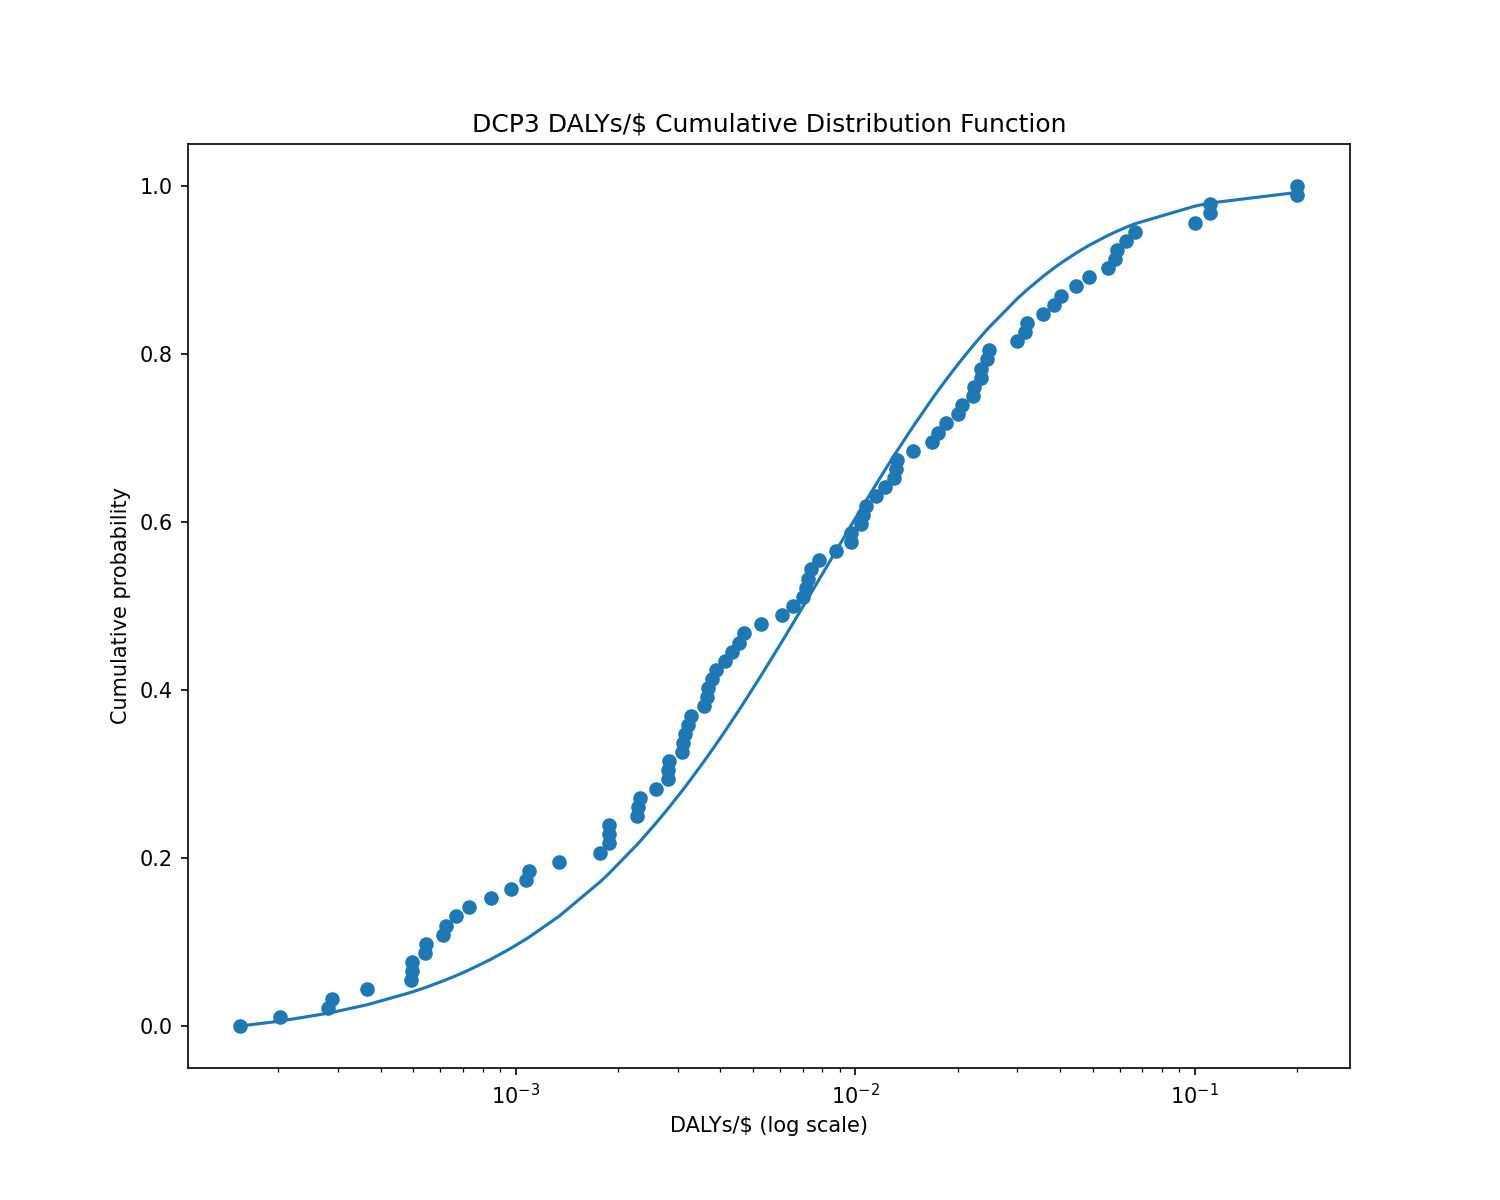
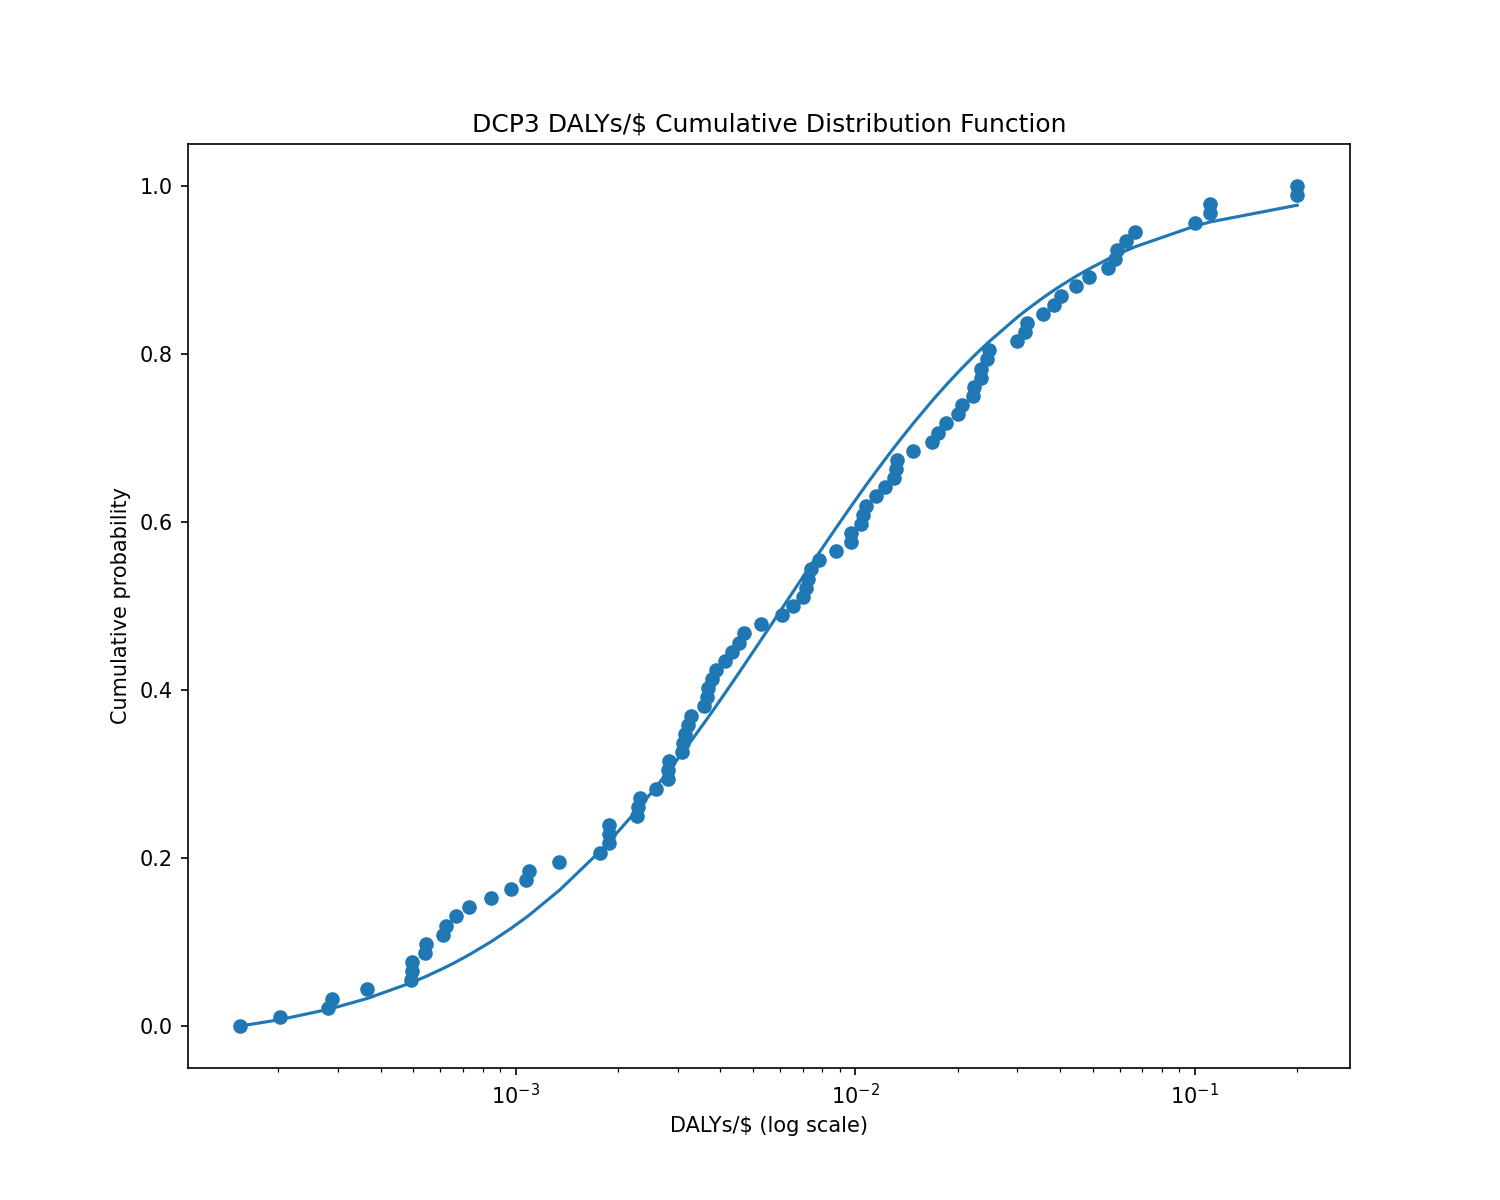
add DCP3 simulations

diff --git a/intervention_power_laws.py b/intervention_power_laws.py
@@ -30,7 +30,7 @@ def alpha_to_rra(alpha):
 
 def dcp3_power_law():
     """
-    Fit the DCP3 DALYs/$ data to a Pareto distribution.
+    Fit the DCP3 DALYs/$ data to a power law (Pareto distribution).
     """
     with open("data/DCP3 cost per DALY.txt") as f:
         text = f.read()
@@ -51,37 +51,52 @@ def dcp3_power_law():
     entry_means.sort()
 
     # fit entry_means to a Pareto distribution
-    alpha, loc, scale = stats.pareto.fit(entry_means)
+    fitparams = stats.pareto.fit(entry_means)
+    alpha, loc, scale = fitparams
 
     # test goodness of fit
-    ks = stats.kstest(entry_means, 'pareto', args=(alpha, loc, scale))
+    ks = stats.kstest(entry_means, 'pareto', args=fitparams)
+    lognorm_ks = stats.kstest(entry_means, 'lognorm', args=stats.lognorm.fit(entry_means))
 
-    print(f"DCP3 DALYs/$\n\talpha: {alpha:.02f}\n\tRRA: {alpha_to_rra(alpha):.02f}\n\tloc: {loc}, scale: {scale}")
+    print(f"DCP3 DALYs/$\n\talpha: {alpha:.02f}\n\tRRA: {alpha_to_rra(alpha):.02f}\n\tloc: {loc:.2g}, scale: {scale:.2g}")
 
-    # pvalue tests the null hypothesis that the data follows a Pareto distribution.
-    # A low p-value is evidence that the data is not Pareto-distributed.
-    description = "probably"
+    # pvalue tests the null hypothesis that the data follows a Pareto
+    # distribution. A low p-value is evidence that the data is not
+    # Pareto-distributed. Qualitative descriptions are roughly based on how
+    # much Bayesian evidence a particular p-value provides.
+    pval_description = "looks"
     if ks.pvalue < 0.25:
-        description = "perhaps not"
+        pval_description = "perhaps"
     elif ks.pvalue < 0.05:
-        description = "probably not"
+        pval_description = "probably not"
     elif ks.pvalue < 0.01:
-        description = "almost certainly not"
-    print(f"Goodness of fit:\n\tp = {ks.pvalue} ({description} Pareto-distributed)")
+        pval_description = "almost certainly not"
+
+    # Test how much evidence there is that the distribution is Pareto vs. lognormal
+    bayes_factor = ks.pvalue / lognorm_ks.pvalue
+    bayes_description = "much more"
+    if bayes_factor < 3:
+        bayes_description = "more"
+    if bayes_factor < 1:
+        bayes_description = "but less"
+    if bayes_factor < 1/3:
+        bayes_description = "but much less"
+
+    print(f"Goodness of fit:\n\tp = {ks.pvalue:.1g} ({pval_description} Pareto-distributed, {bayes_description} Pareto than lognormal)")
 
     # show scatterplot and fitted curve
-    empirical_cdf = np.linspace(0, 1, len(entry_means))
+    cdf = np.linspace(0, 1, len(entry_means))
     plt.title("DCP3 DALYs/$ Cumulative Distribution Function")
     plt.xscale("log")
     plt.xlabel("DALYs/$ (log scale)")
     plt.ylabel("Cumulative probability")
-    plt.scatter(entry_means, empirical_cdf)
-    plt.plot(entry_means, stats.pareto.cdf(entry_means, alpha, loc, scale))
+    plt.scatter(entry_means, cdf)
+    plt.plot(entry_means, stats.pareto.cdf(entry_means, *fitparams))
     plt.gcf().set_size_inches(10, 8)
     plt.savefig("data/dcp3-curve-fit.png", dpi=150)
     plt.show()
 
-def cost_effectiveness_with_error(true_alpha):
+def cost_effectiveness_with_error(true_alpha, estimate_error=0.2, num_samples=10000, show_output=True, show_plot=True):
     """
     Simulate the effect of estimation error on cost-effectiveness analysis.
     Assume true DALYs/$ are pulled from a Pareto distribution, and then some
@@ -92,17 +107,45 @@ def cost_effectiveness_with_error(true_alpha):
     Note: The goodness-of-fit test strongly rejects that the result follows a
     Pareto distribution, but the estimates in DCP3 do fit a Pareto dist, which
     means this model of how errors occur must be wrong. The error gets worse at
-    higher true alpha and higher estimation error.
+    higher true alpha and higher estimation error. (Doesn't fit lognorm either)
     """
-    true_DALYs_per_dollar = stats.pareto.rvs(true_alpha, loc=0, scale=1, size=100000)
-    estimation_errors = stats.norm.rvs(loc=0, scale=0.2, size=100000)
+    true_DALYs_per_dollar = stats.lomax.rvs(true_alpha, loc=0, scale=1, size=num_samples)
+    true_DALYs_per_dollar.sort()
+    estimation_errors = stats.norm.rvs(loc=0, scale=estimate_error, size=num_samples)
     estimated_DALYs_per_dollar = true_DALYs_per_dollar * np.exp(estimation_errors)
+    estimated_DALYs_per_dollar.sort()
 
     # fit estimated DALYs/$ to a Pareto distribution
-    alpha, loc, scale = stats.pareto.fit(estimated_DALYs_per_dollar)
-    # ks = stats.kstest(estimated_DALYs_per_dollar, 'pareto', args=(alpha, loc, scale))
-    print(f"true alpha {true_alpha:.02f} --> estimated alpha {alpha:.02f} (difference {alpha - true_alpha:.02f})")
-    # print(f"Estimated DALYs/$\n\talpha: {alpha:.02f}\n\tRRA: {alpha_to_rra(alpha):.02f}\n\tloc: {loc}, scale: {scale}\n\tGoodness of fit: p = {ks.pvalue}")
+    alpha, loc, scale = stats.lomax.fit(estimated_DALYs_per_dollar)
+    ks = stats.kstest(estimated_DALYs_per_dollar, 'lomax', args=(alpha, loc, scale))
+    if show_output:
+        print(f"true alpha {true_alpha:.2f} --> estimated alpha {alpha:.02f} (difference {alpha - true_alpha:.02f})")
+        # print(f"\tloc = {loc}, scale = {scale}")
+        # print(f"\tgoodness-of-fit: p = {ks.pvalue}")
+
+    # show scatterplot and fitted curve
+    if show_plot:
+        cdf = np.linspace(0, 1, len(estimated_DALYs_per_dollar))
+        plt.title("Estimated DALYs/$ Cumulative Distribution Function")
+        plt.xscale("log")
+        plt.xlabel("DALYs/$ (log scale)")
+        plt.ylabel("Cumulative probability")
+        plt.scatter(estimated_DALYs_per_dollar, cdf, s=1)
+        plt.plot(estimated_DALYs_per_dollar, stats.lomax.cdf(estimated_DALYs_per_dollar, alpha, loc, scale), color='orange')
+        plt.show()
+
+    return alpha
 
 
-dcp3_power_law()
+def run_dcp3_sims():
+    """
+    Simulate what happens on average when we get 93 cost-effectiveness
+    samples (which is the size of the DCP3 data set) with some noise in the
+    cost-effectiveness estimate. How well do the estimates fit a Pareto
+    distribution, and is the alpha estimate biased?
+    """
+    true_alpha = 1.1
+    est_alphas = [cost_effectiveness_with_error(true_alpha, 1, num_samples=93, show_output=False, show_plot=False) for _ in range(10000)]
+
+    print(f"mean estimate: {np.mean(est_alphas):.02f} (true alpha = {true_alpha}). stdev: {np.std(est_alphas):.02f}")
+    print(f"p-value of bias: {stats.ttest_1samp(est_alphas, true_alpha).pvalue:.02f} (t = {stats.ttest_1samp(est_alphas, true_alpha).statistic:.01f})")
